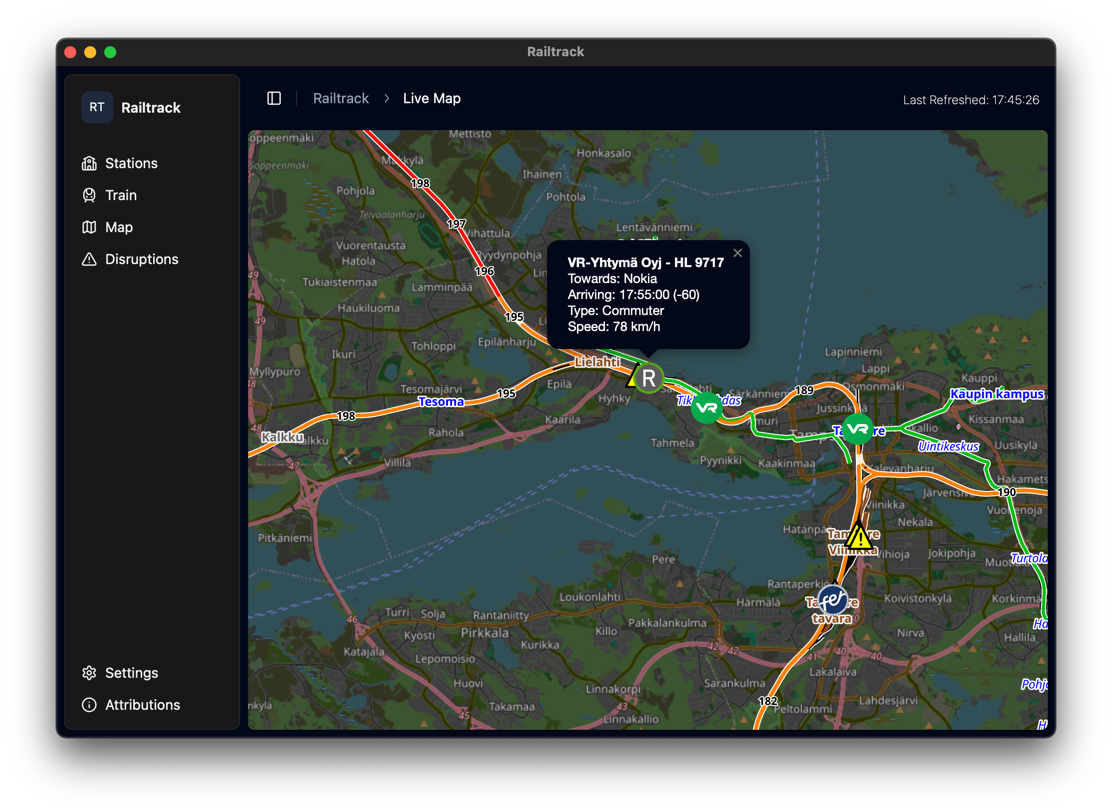
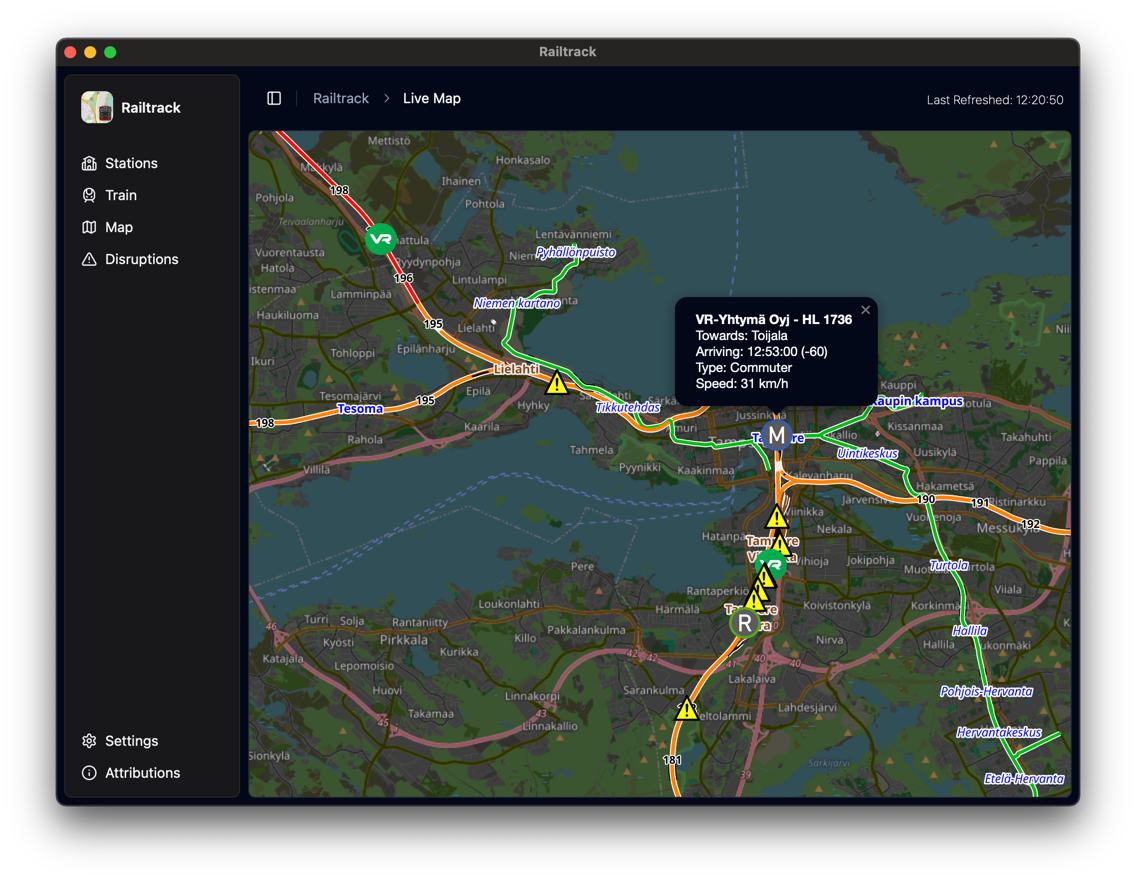
feat: updated thumbnail

diff --git a/src/App.vue b/src/App.vue
@@ -121,7 +121,7 @@ async function routeTo(link: string) {
         <SidebarHeader>
           <SidebarMenuButton size="lg" class="data-[state=open]:bg-sidebar-accent data-[state=open]:text-sidebar-accent-foreground" @click="routeTo('/')">
             <Avatar class="h-8 w-8 rounded-lg">
-              <AvatarImage src="/railtrack_without_loco.png" alt="RailtrackLogo" />
+              <AvatarImage src="/railtrack_mobile.png" alt="RailtrackLogo" />
               <AvatarFallback class="rounded-lg">
                 RT
               </AvatarFallback>
